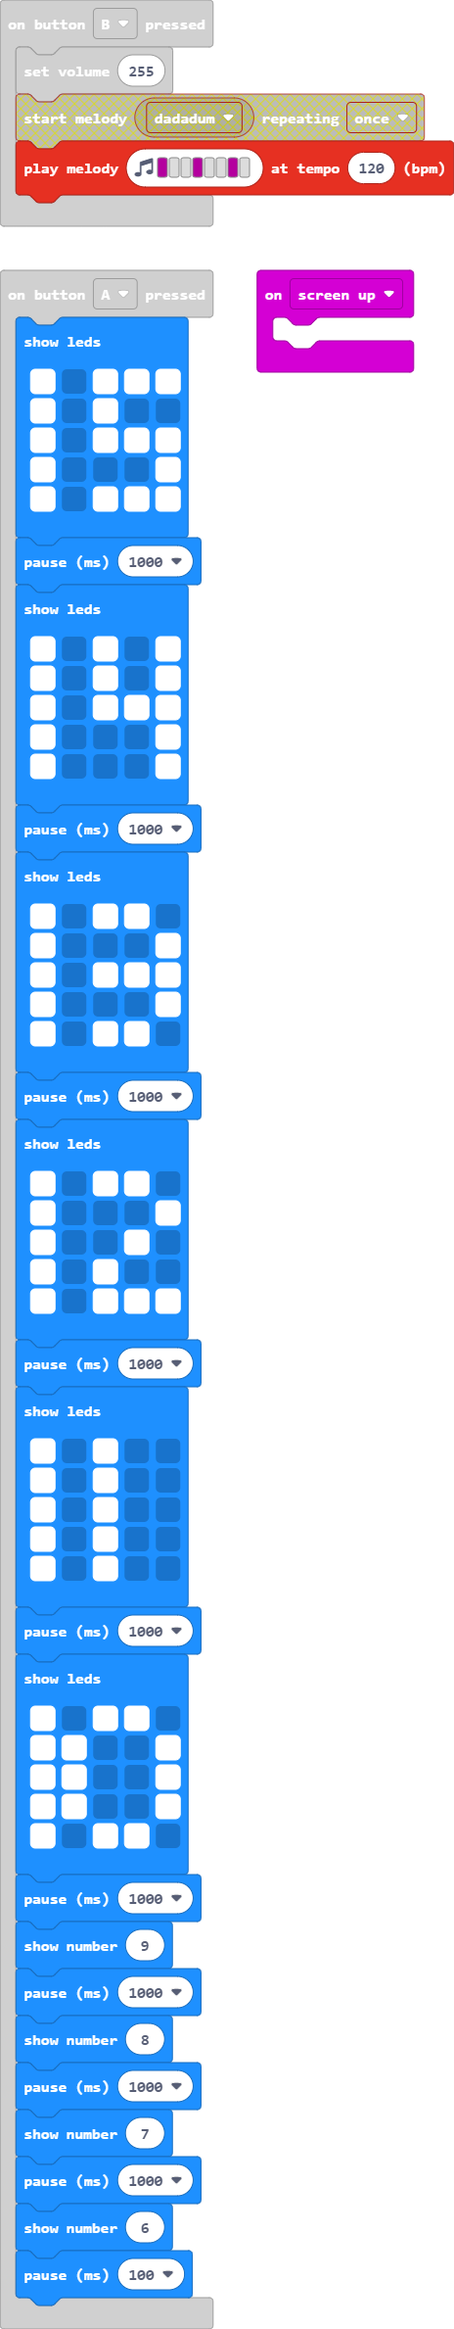
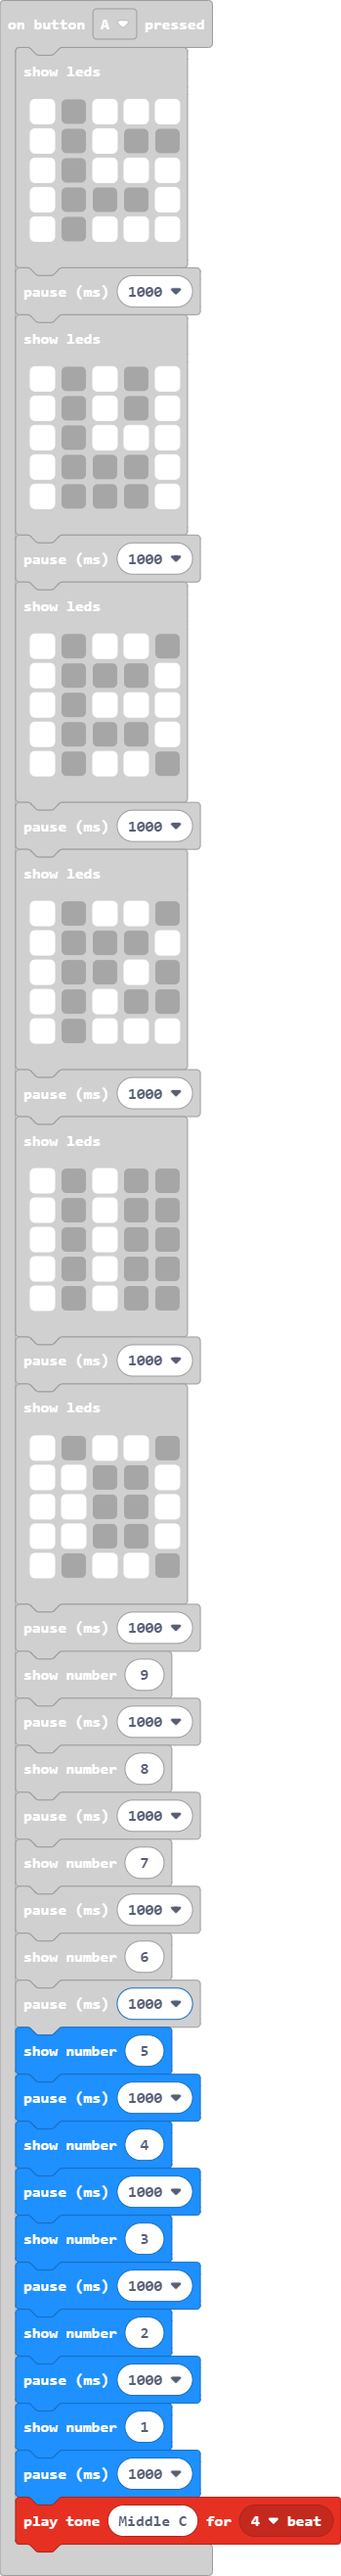
Update main.blocks, main.ts

diff --git a/main.ts b/main.ts
@@ -54,7 +54,18 @@ input.onButtonPressed(Button.A, function () {
     basic.showNumber(7)
     basic.pause(1000)
     basic.showNumber(6)
-    basic.pause(100)
+    basic.pause(1000)
+    basic.showNumber(5)
+    basic.pause(1000)
+    basic.showNumber(4)
+    basic.pause(1000)
+    basic.showNumber(3)
+    basic.pause(1000)
+    basic.showNumber(2)
+    basic.pause(1000)
+    basic.showNumber(1)
+    basic.pause(1000)
+    music.playTone(262, music.beat(BeatFraction.Breve))
 })
 input.onGesture(Gesture.ScreenUp, function () {
 	
